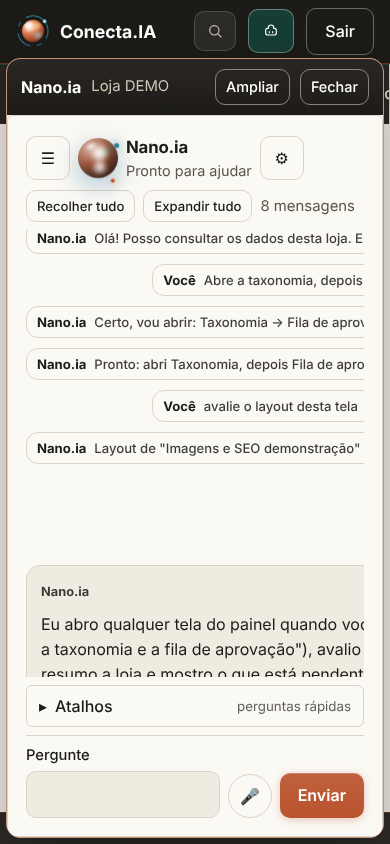
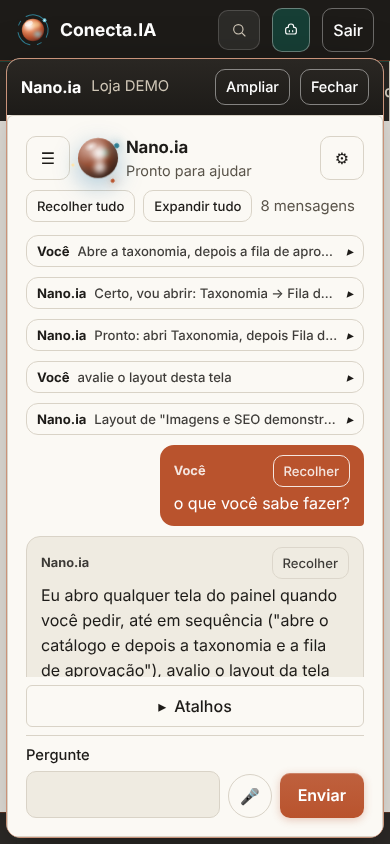
fix(painel): janela e barra do Nano.ia sem corte em celular estreito/texto grande (300-390 px); teste visual a 300 e 360 px
Claude-Session: https://claude.ai/code/session_01VMHvTDaEn6HYb7ZmrJorve

diff --git a/painel/src/shell.css b/painel/src/shell.css
@@ -314,3 +314,26 @@ html button.balao-genesis { color: #fff; left: 0; top: 0; right: auto; bottom: a
 
 html button.balao-genesis:hover:not(:disabled) { background: radial-gradient(120% 160% at 20% 0%, color-mix(in srgb, var(--ciano) 30%, var(--grafite-2)) 0%, var(--grafite) 70%); }
 .dock-topo .sec, .dock-topo .sec:hover:not(:disabled) { color: #fff; border-color: rgba(255,255,255,.45); background: transparent; } .dock-topo .sec:hover:not(:disabled) { background: rgba(255,255,255,.14); }
+
+/* ===== Janela do Nano.ia em celular estreito / texto grande: nada passa da borda (min-width:auto dos filhos de flex/grid empurrava o conteúdo) ===== */
+.dock-agente { grid-template-columns: minmax(0, 1fr); max-width: 100vw; }
+.dock-agente, .dock-agente .dock-corpo, .dock-agente .abas-caixa, .dock-agente .abas, .dock-agente .abas-centro, .dock-agente .abas-centro > *, .dock-agente .agente, .dock-agente form, .dock-agente .chat-compositor, .dock-agente .linha-voz, .dock-agente .retratil, .dock-agente .retratil-cabecote { min-width: 0; max-width: 100%; box-sizing: border-box; }
+.dock-topo { flex-wrap: wrap; row-gap: 6px; }
+.dock-topo strong { flex: none; } .dock-topo .suave { flex: 1 1 0; min-width: 0; overflow: hidden; text-overflow: ellipsis; white-space: nowrap; }
+.dock-topo .mini { flex: none; }
+.dock-agente .agente { flex-wrap: wrap; row-gap: 6px; }
+.dock-agente .agente-titulo { flex: 1 1 8ch; }
+.dock-agente .linha-voz { display: flex; gap: 8px; align-items: end; } .dock-agente .linha-voz > label { flex: 1 1 0; min-width: 0; } .dock-agente .linha-voz input { min-width: 0; width: 100%; }
+.dock-agente .linha-voz > button { flex: none; }
+.dock-agente .linha { flex-wrap: wrap; }
+.dock-agente .retratil-titulo { flex: none; } .dock-agente .retratil-resumo { min-width: 0; }
+.dock-agente .chat { overflow-x: hidden; } .dock-agente .bolha, .dock-agente .bolha-linha { max-width: 100%; overflow-wrap: anywhere; }
+@media (max-width: 400px) { .dock-agente .retratil-resumo { display: none; } .dock-agente .consentimento { font-size: .78rem; } }
+/* barra superior em celular estreito / texto grande: o nome da loja e os botões encolhem em vez de empurrar a tela para o lado */
+@media (max-width: 420px) {
+  .topo { gap: 6px; padding-left: 8px; padding-right: 8px; }
+  .topo .marca { min-width: 0; flex: 0 1 auto; } .topo .marca > div { min-width: 0; overflow: hidden; text-overflow: ellipsis; white-space: nowrap; max-width: 12ch; } .topo .marca small { display: none; }
+  .topo > button.sec { padding: 4px 10px; min-width: 0; }
+}
+.dock-agente .chat, .abas .chat { grid-template-columns: minmax(0, 1fr); }
+.bolha-linha { min-width: 0; overflow: hidden; }
